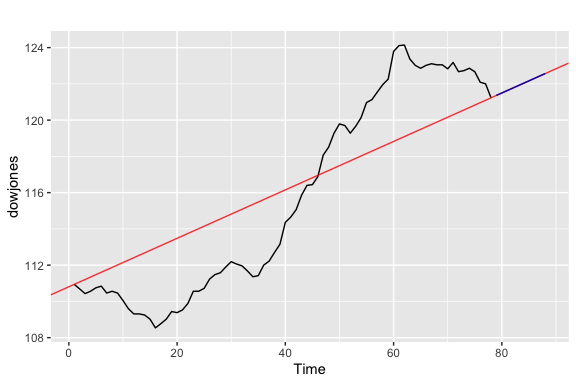
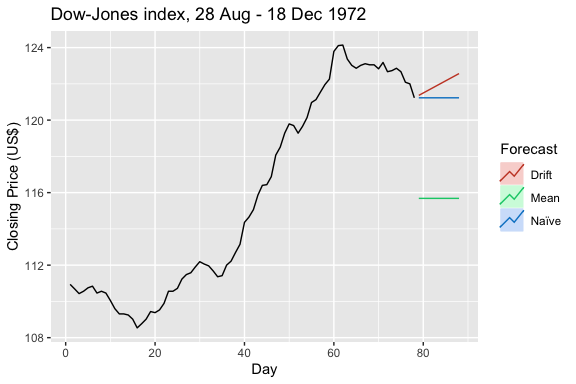
ch 3 exercises

diff --git a/Chapter_3.md b/Chapter_3.md
@@ -76,29 +76,14 @@ For each of the following series, make a graph of the data. If transforming seem
 
 ``` r
 autoplot(dole)
-```
-
-![](Figures/Ch3/Ch3-Exercise_4-1.png)
-
-``` r
 lambda <- BoxCox.lambda(dole)
 cbind(raw = dole, transform = BoxCox(dole, lambda)) %>% 
    autoplot(facets = TRUE)
-```
-
-![](Figures/Ch3/Ch3-Exercise_4-2.png)
-
-``` r
 autoplot(usdeaths)
-```
-
-![](Figures/Ch3/Ch3-Exercise_4-3.png)
-
-``` r
 autoplot(bricksq)
 ```
 
-![](Figures/Ch3/Ch3-Exercise_4-4.png)
+<img src="Figures/Ch3/Ch3-Exercise_4-1.png" width="50%" /><img src="Figures/Ch3/Ch3-Exercise_4-2.png" width="50%" /><img src="Figures/Ch3/Ch3-Exercise_4-3.png" width="50%" /><img src="Figures/Ch3/Ch3-Exercise_4-4.png" width="50%" />
 
 ### Exercise 5
 
@@ -331,18 +316,13 @@ autoplot(dowjones)
 
 ![](Figures/Ch3/Ch3-Exercise_10a-1.png)
 
-1.  Produce forecasts using the drift method and plot them.
+-   Produce forecasts using the drift method and plot them.
+-   Show that the forecasts are identical to extending the line drawn between the first and last observations.
 
 ``` r
 fc <- rwf(dowjones, drift = TRUE, h = 10)
 autoplot(fc)
-```
 
-![](Figures/Ch3/Ch3-Exercise_10b-1.png)
-
--   Show that the forecasts are identical to extending the line drawn between the first and last observations.
-
-``` r
 first <- dowjones[1]
 last<- dowjones[length(dowjones)]
 slope <- (last - first)/(length(dowjones) - 1)
@@ -353,11 +333,11 @@ autoplot(dowjones) +
    autolayer(rwf(dowjones, drift = TRUE), PI = FALSE)
 ```
 
-![](Figures/Ch3/Ch3-Exercise_10c-1.png)
+<img src="Figures/Ch3/Ch3-Exercise_10b-1.png" width="50%" /><img src="Figures/Ch3/Ch3-Exercise_10b-2.png" width="50%" />
 
 -   Try using some of the other benchmark functions to forecast the same data set. Which do you think is best? Why?
 
-         * The naïve method seems to produce the best forecasts. The mean forecasts is simply too far off from the recent actuals to be reasonable. The drift method seems to aggresive. 
+    -   The naive method seems to produce the best forecasts. The mean forecasts is simply too far off from the recent actuals to be reasonable. The drift method seems to aggresive.
 
 ``` r
 autoplot(dowjones) +
@@ -372,7 +352,7 @@ autoplot(dowjones) +
   guides(colour=guide_legend(title="Forecast"))
 ```
 
-![](Figures/Ch3/Ch3-Exercise_10d-1.png)
+![](Figures/Ch3/Ch3-Exercise_10c-1.png)
 
 ### Exercise 11
 
@@ -382,15 +362,10 @@ Consider the daily closing IBM stock prices (data set `ibmclose`).
 
 ``` r
 autoplot(ibmclose)
-```
-
-![](Figures/Ch3/Ch3-Exercise_11a-1.png)
-
-``` r
 autoplot(diff(ibmclose))
 ```
 
-![](Figures/Ch3/Ch3-Exercise_11a-2.png)
+<img src="Figures/Ch3/Ch3-Exercise_11a-1.png" width="50%" /><img src="Figures/Ch3/Ch3-Exercise_11a-2.png" width="50%" />
 
 -   Split the data into a training set of 300 observations and a test set of 69 observations.
 
